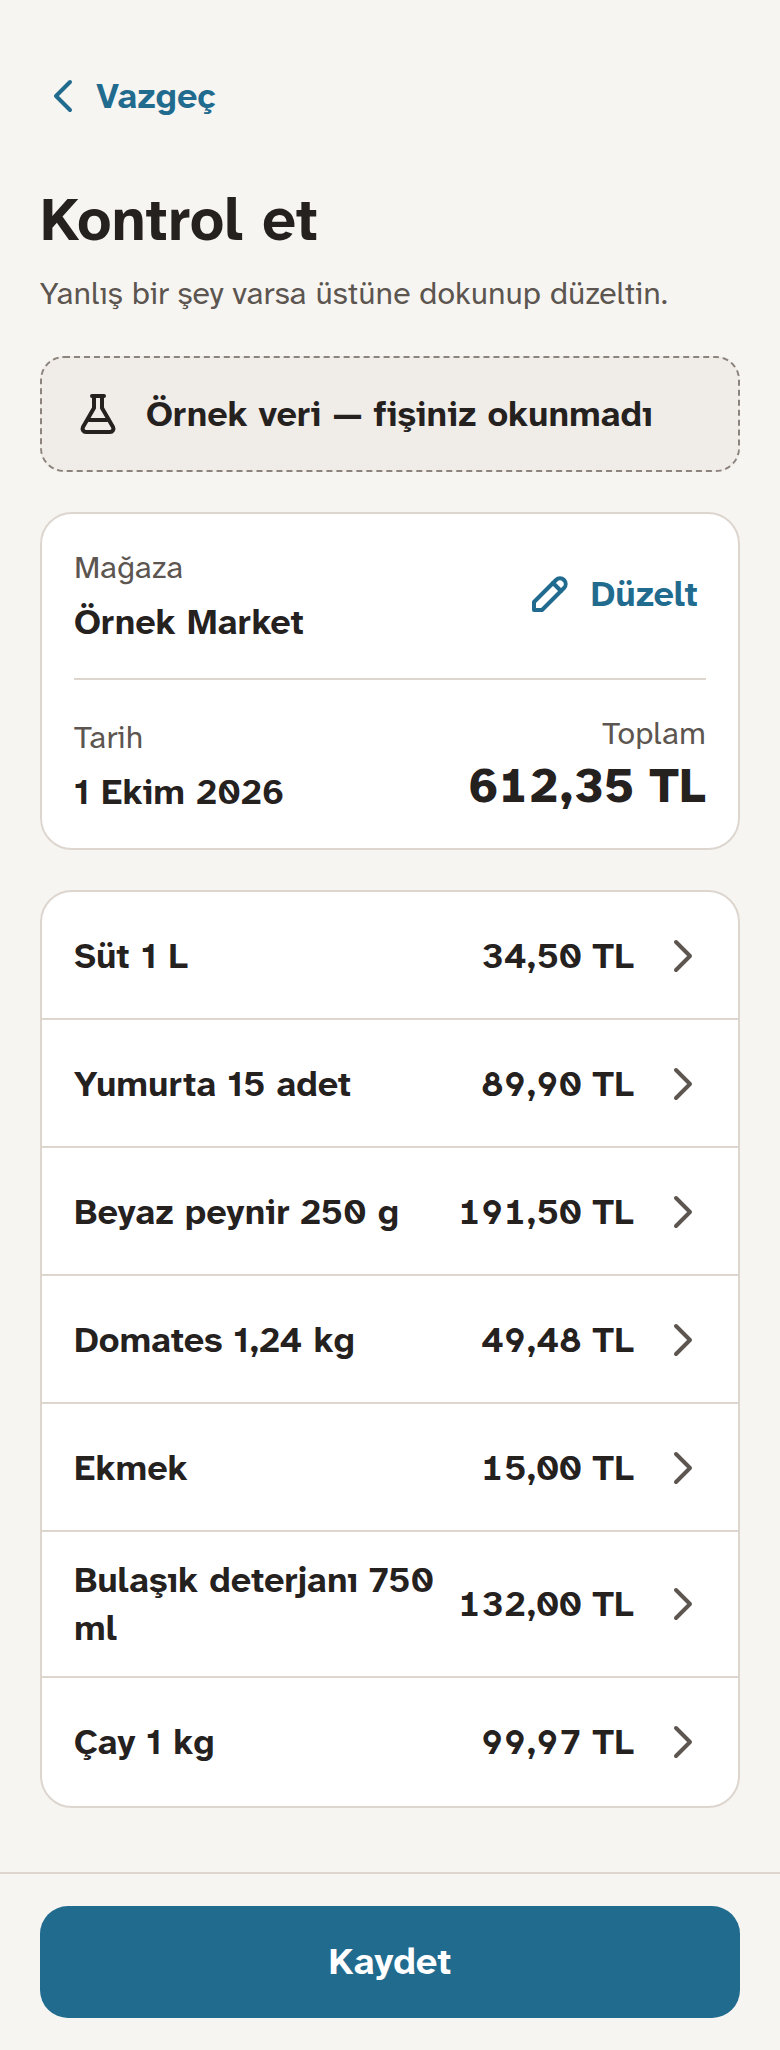
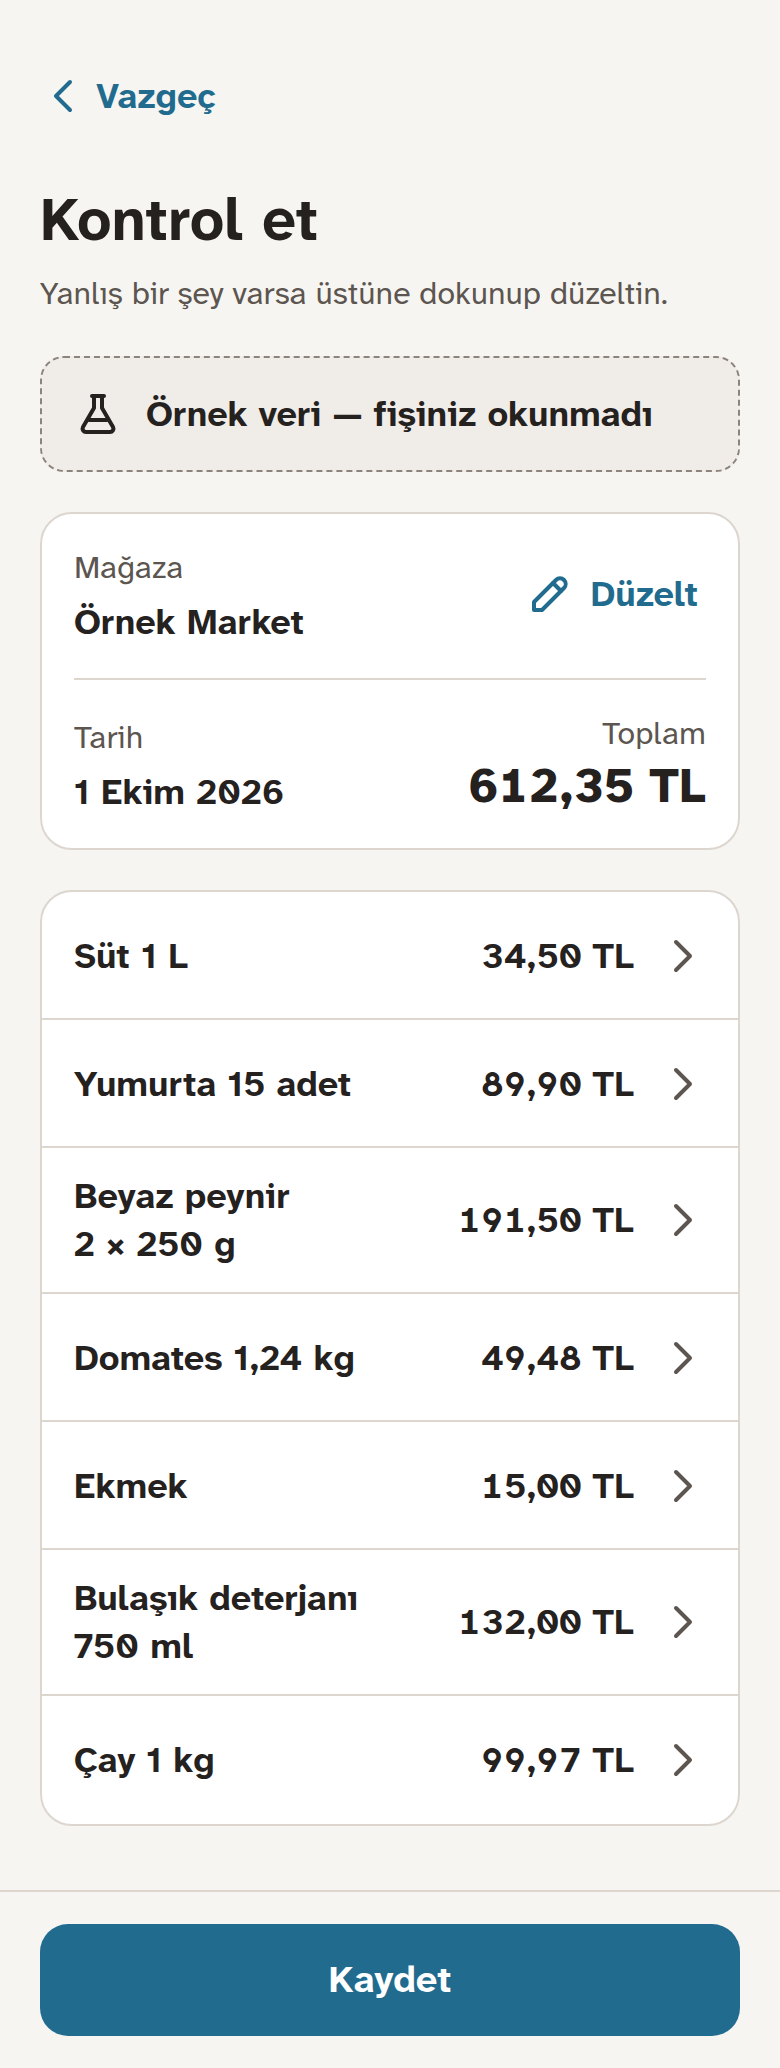
fix(mobile): show the package count on an item's line, keep sizes unbroken
evaluator-qa (PASS) noted that "250 g × 2" read as "250 g" on Kontrol et
and that an unread name repeated the size after the printed line.

Claude-Session: https://claude.ai/code/session_01RGVwZ7maTpM1hsNSxugiRE

diff --git a/apps/mobile/app/(flow)/kontrol.tsx b/apps/mobile/app/(flow)/kontrol.tsx
@@ -49,11 +49,23 @@ const notReadable: Failure = {
 
 const goHome = () => router.replace("/");
 
-/** "Beyaz peynir 500 g", "Domates 1,24 kg": the name with its size. */
+/**
+ * "Beyaz peynir 500 g", "Beyaz peynir 2 × 250 g", "Domates 1,24 kg": the
+ * name with its size. An unread name shows the printed line as it is.
+ */
 function itemTitle(item: DraftItem): string {
+  if (item.name === null) return item.rawText;
   const size = item.packageSize ?? item.quantity;
-  const name = item.name ?? item.rawText;
-  return size ? `${name} ${formatMeasure(size)}` : name;
+  if (!size) return item.name;
+  const count =
+    item.packageSize && item.packageCount && item.packageCount > 1
+      ? `${item.packageCount} × `
+      : "";
+  // No-break spaces keep "2 × 250 g" together when the line wraps.
+  return `${item.name} ${count}${formatMeasure(size)}`.replace(
+    / (?=×|[^ ]+$)|(?<=×) /g,
+    "\u00a0",
+  );
 }
 
 function mismatchText(mismatch: TotalMismatch): Failure {
